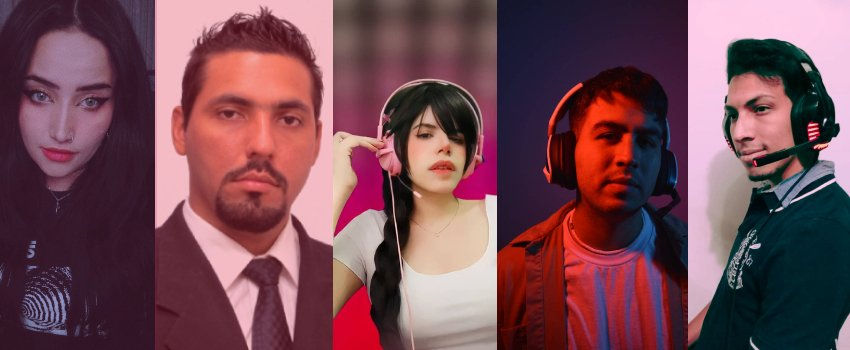
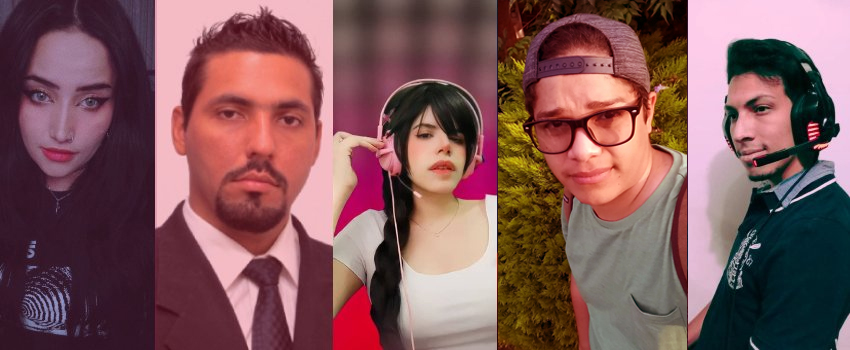
team mod

Changed region(s): [[0.5812, 0.0, 0.8259, 1.0]]

diff --git a/pages/components/Cards.js b/pages/components/Cards.js
@@ -31,7 +31,7 @@ const Cards = () => {
               alt="..."
               className="circuloPerfil p-2 rounded-full max-w-full h-auto "
               style={{
-                background: "linear-gradient( #c59b37, #f4e078 )",
+                background: "linear-gradient(#71C100, #65C900)",
               }}
             />
             <h2 className="nombreCard text-2xl pt-2">Grecia Mogollón</h2>
@@ -83,26 +83,26 @@ const Cards = () => {
         <div className="flex relative lg:w-96 mt-20 flex-col card items-center justify-center w-auto m-4">
           <div className="flex flex-col items-center justify-center relative top-[-7vh] pt-[-7vh] w-52 ">
             <img
-              src="../images/team/spanohcirculo.jpeg"
+              src="../images/team/yoto.jpg"
               alt="..."
               className="circuloPerfil p-2 rounded-full max-w-full h-auto "
               style={{
-                background: "linear-gradient(#c59b37, #f4e078 )",
+                background: "linear-gradient(#71C100, #65C900)",
               }}
             />
-            <h2 className="nombreCard text-2xl pt-2">Mario Spano</h2>
+            <h2 className="nombreCard text-2xl pt-2">Yonathan Soto</h2>
 
-            <p className="subTitulo text-base">@span0h</p>
+            <p className="subTitulo text-base">@yoto</p>
 
             <h3 className="about pt-8 pb-4">Sobre Mi</h3>
 
             <p className="descripcion text-base w-60">
-              Fundador LVD, Amante del gaming.
+              Desarrollador web, amante de los videojuegos, la música y el cine.
             </p>
 
             <div className="flex gap-10 border- border-t border-[#32353B] mt-6">
               <a
-                href="https://www.instagram.com/span0h/"
+                href="https://www.instagram.com/__yoto/"
                 target="_blank"
                 rel="noreferrer"
               >
@@ -112,7 +112,7 @@ const Cards = () => {
                   className="w-12 mt-4"
                 />
               </a>
-              <a href="https://www.twitter.com/span0h/" rel="noreferrer"
+              <a href="https://www.instagram.com/__yoto/" rel="noreferrer"
                  target="_blank"
               >
                 <img
@@ -121,7 +121,7 @@ const Cards = () => {
                   className="w-12 mt-4"
                 />
               </a>
-              <a href="https://www.twitter.com/span0h/"
+              <a href="https://www.instagram.com/__yoto/"
                 target="_blank"
                 rel="noreferrer"
               >
@@ -144,7 +144,7 @@ const Cards = () => {
               alt="..."
               className="circuloPerfil p-2 rounded-full max-w-full h-auto "
               style={{
-                background: "linear-gradient( #c59b37, #f4e078 )",
+                background: "linear-gradient(#71C100, #65C900)",
               }}
             />
             <h2 className="nombreCard text-2xl pt-2">Anthony Cerezo</h2>
@@ -204,7 +204,7 @@ const Cards = () => {
             alt="..."
             className="circuloPerfil p-2 rounded-full max-w-full h-auto "
             style={{
-              background: "linear-gradient( #c59b37, #f4e078 )",
+              background: "linear-gradient(#71C100, #65C900)",
             }}
           />
           <h2 className="nombreCard text-2xl pt-2">Elizabeth Banegas</h2>
@@ -264,7 +264,7 @@ const Cards = () => {
             alt="..."
             className="circuloPerfil p-2 rounded-full max-w-full h-auto "
             style={{
-              background: "linear-gradient( #c59b37, #f4e078 )",
+              background: "linear-gradient(#71C100, #65C900)",
             }}
           />
           <h2 className="nombreCard text-2xl pt-2">Daniel Arevalo</h2>
